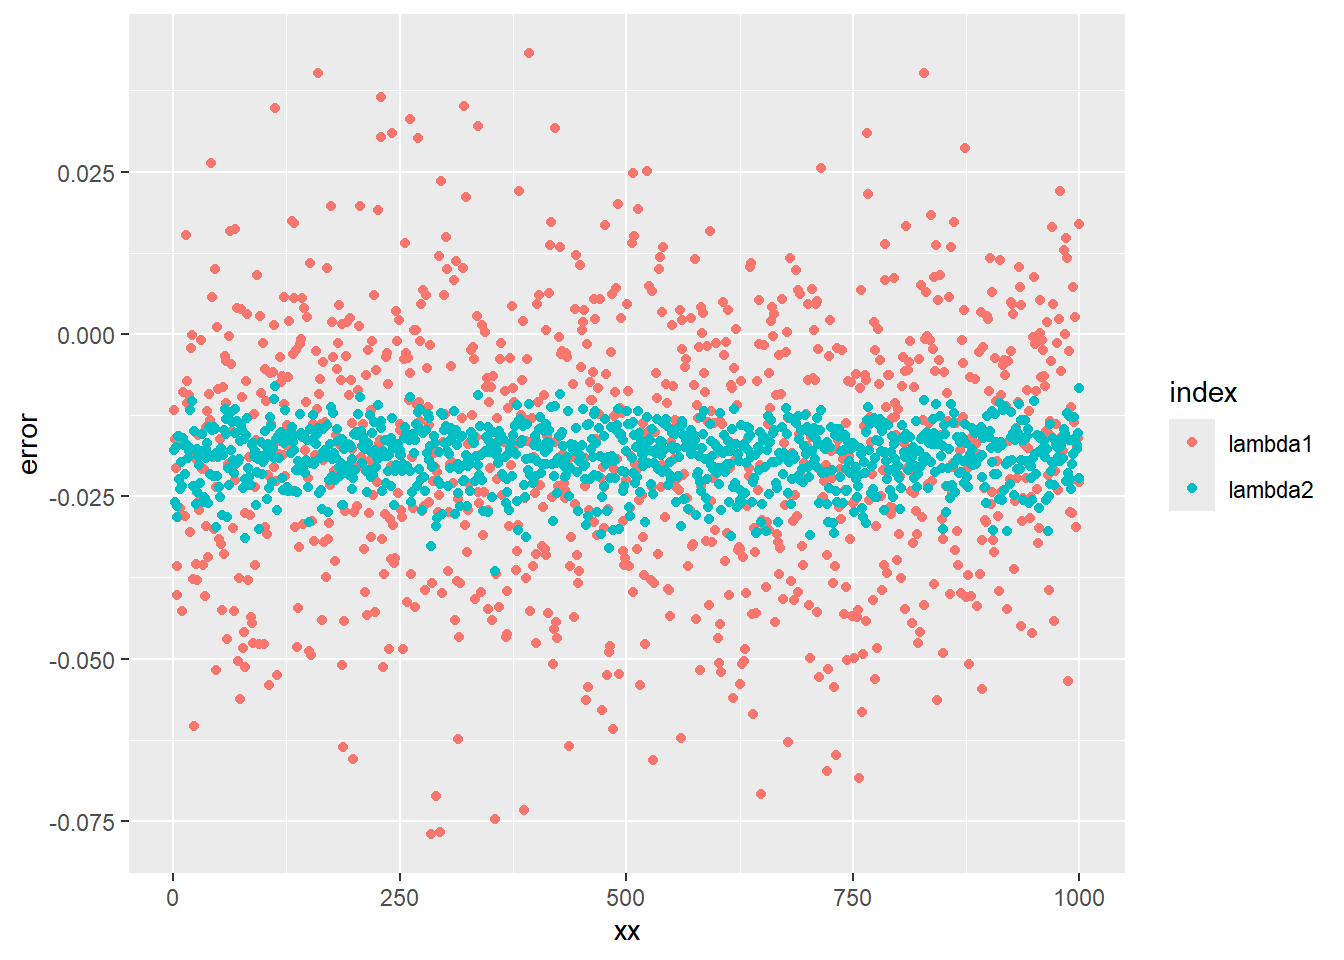
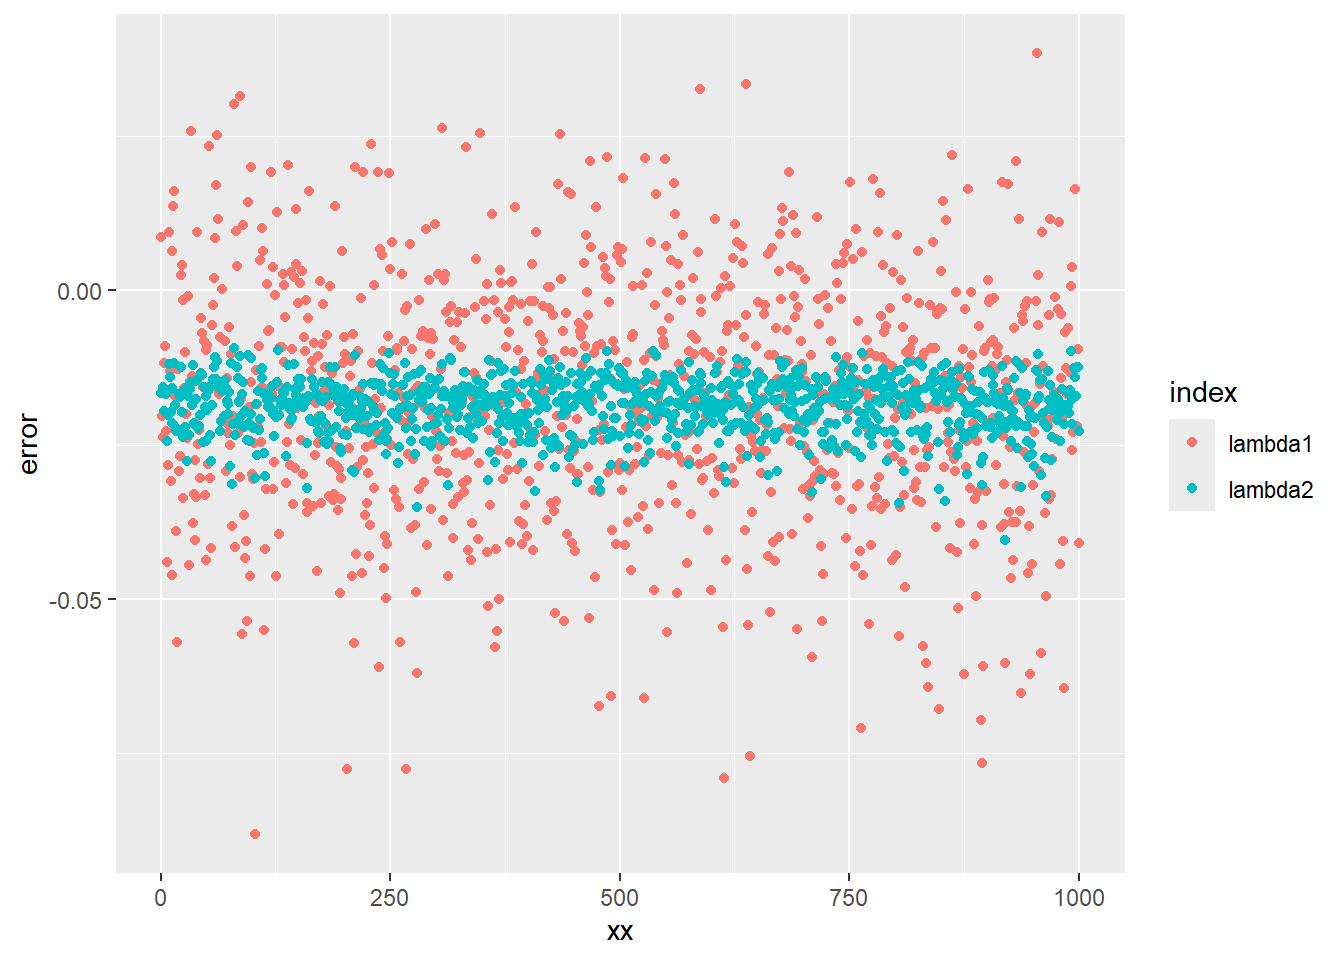
max6

diff --git a/Notes/Max/max.html b/Notes/Max/max.html
@@ -7,6 +7,7 @@
 <meta name="viewport" content="width=device-width, initial-scale=1.0, user-scalable=yes">
 
 <meta name="author" content="zzt">
+<meta name="dcterms.date" content="2024-09-07">
 
 <title>Distribution of Maximum Eigenvalues</title>
 <style>
@@ -196,6 +197,12 @@ window.Quarto = {
           </div>
   </div>
     
+    <div>
+    <div class="quarto-title-meta-heading">Published</div>
+    <div class="quarto-title-meta-contents">
+      <p class="date">September 7, 2024</p>
+    </div>
+  </div>
   
     
   </div>
@@ -243,7 +250,7 @@ window.Quarto = {
 </div>
 </div>
 </div>
-<p>Let <span class="math inline">\(W_i\)</span> is the summation of ith row of <span class="math inline">\(W\)</span>. Two different estimations of maximum eigenvalue are <span class="math inline">\(\lambda_1=  \frac{1}{n}\sum_{i} Wi+\sigma^2\)</span> and <span class="math inline">\(\lambda_2=\frac{\sum_{i}W_i^2}{\sum_{i}W_i}\)</span>.</p>
+<p>Let <span class="math inline">\(W_i\)</span> is the summation of ith row of <span class="math inline">\(W\)</span>. Two different estimations of maximum eigenvalue are <span class="math inline">\(\lambda_1=  \frac{1}{n}\sum_{i} Wi+\sigma^2\)</span> and <span class="math inline">\(\lambda_2=\frac{\sum_{i}W_i^2}{\sum_{i}W_i}\)</span>. The errors between them and the real eigenvalues are showed as following.</p>
 <div class="cell">
 <div class="sourceCode cell-code" id="cb3"><pre class="sourceCode r code-with-copy"><code class="sourceCode r"><span id="cb3-1"><a href="#cb3-1" aria-hidden="true" tabindex="-1"></a>error <span class="ot">&lt;-</span> <span class="fu">c</span>(eigw[,<span class="dv">4</span>],eigw[,<span class="dv">5</span>])</span>
 <span id="cb3-2"><a href="#cb3-2" aria-hidden="true" tabindex="-1"></a>index <span class="ot">&lt;-</span> <span class="fu">c</span>(<span class="fu">rep</span>(<span class="st">"lambda1"</span>,iter),<span class="fu">rep</span>(<span class="st">"lambda2"</span>,iter))</span>

diff --git a/index.html b/index.html
@@ -241,7 +241,7 @@ window.Quarto = {
 <h2 data-anchor-id="notes">Notes</h2>
 <div id="listing-Notes" class="quarto-listing quarto-listing-container-grid">
 <div class="list grid quarto-listing-cols-3">
-<div class="g-col-1" data-index="0" data-listing-date-sort="1725638400000" data-listing-file-modified-sort="1725716386314" data-listing-date-modified-sort="NaN" data-listing-reading-time-sort="1" data-listing-word-count-sort="178">
+<div class="g-col-1" data-index="0" data-listing-date-sort="1725638400000" data-listing-file-modified-sort="1725717445344" data-listing-date-modified-sort="NaN" data-listing-reading-time-sort="1" data-listing-word-count-sort="184">
 <a href="./Notes/Max/max.html" class="quarto-grid-link">
 <div class="quarto-grid-item card h-100 card-left">
 <div class="card-body post-contents">
